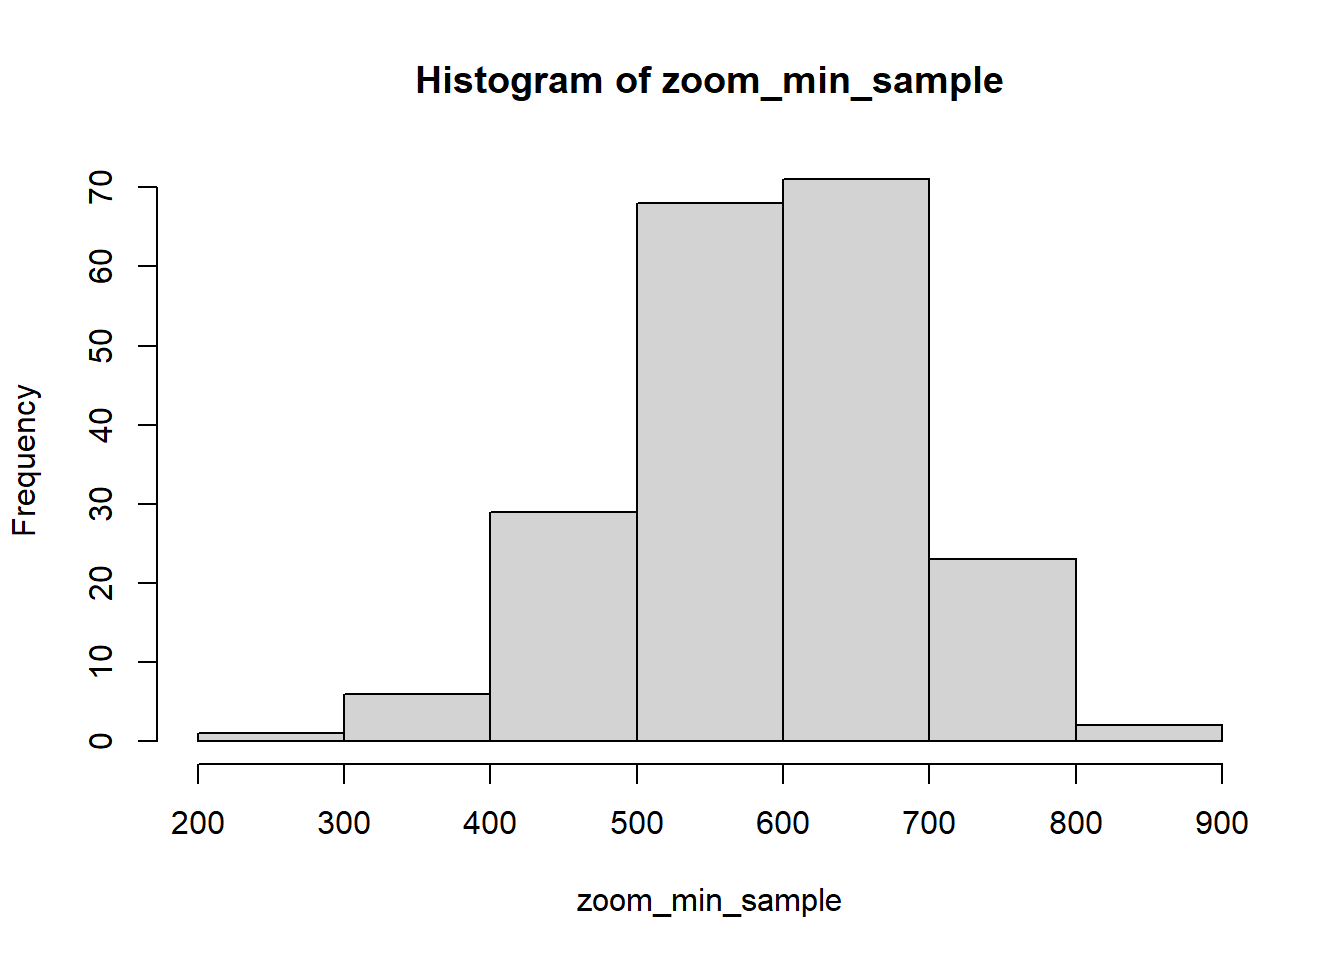
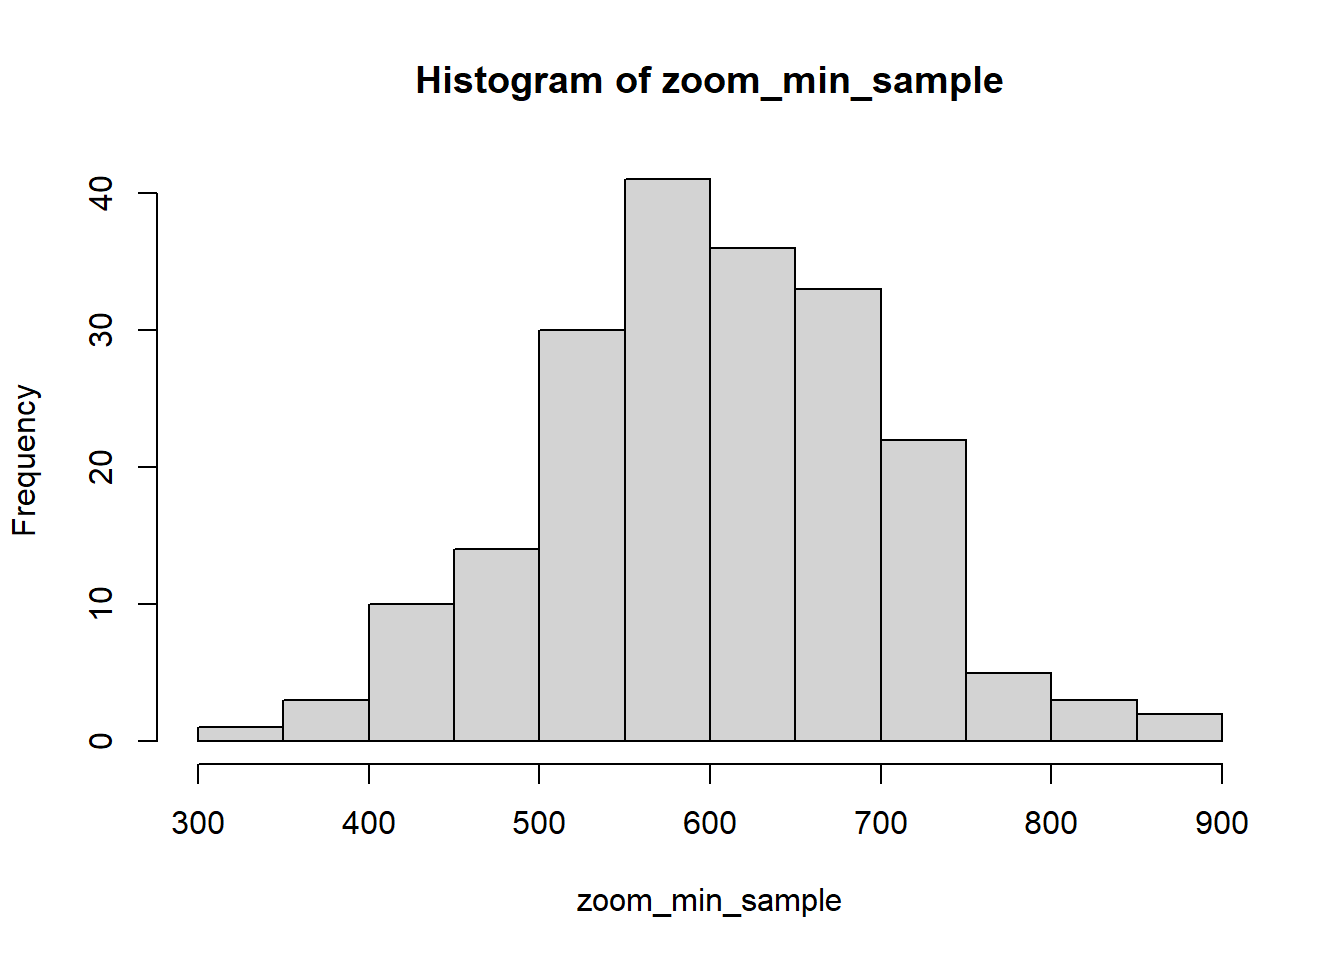
misc updates

diff --git a/docs/week-2-intro-stats-data-distributions-intro-r-rstudio.html b/docs/week-2-intro-stats-data-distributions-intro-r-rstudio.html
@@ -24,7 +24,7 @@
 <meta name="author" content="Dr. Katz" />
 
 
-<meta name="date" content="2021-02-07" />
+<meta name="date" content="2021-02-08" />
 
   <meta name="viewport" content="width=device-width, initial-scale=1" />
   <meta name="apple-mobile-web-app-capable" content="yes" />
@@ -449,9 +449,9 @@ code span.wa { color: #60a0b0; font-weight: bold; font-style: italic; } /* Warni
 <span id="cb33-6"><a href="week-2-intro-stats-data-distributions-intro-r-rstudio.html#cb33-6" aria-hidden="true"></a><span class="kw">hist</span>(zoom_min_sample)</span></code></pre></div>
 <p><img src="test_course_notes_files/figure-html/unnamed-chunk-18-2.png" width="672" /></p>
 <div class="sourceCode" id="cb34"><pre class="sourceCode r"><code class="sourceCode r"><span id="cb34-1"><a href="week-2-intro-stats-data-distributions-intro-r-rstudio.html#cb34-1" aria-hidden="true"></a><span class="kw">mean</span>(zoom_min_sample)</span></code></pre></div>
-<pre><code>## [1] 589.9368</code></pre>
+<pre><code>## [1] 602.8275</code></pre>
 <div class="sourceCode" id="cb36"><pre class="sourceCode r"><code class="sourceCode r"><span id="cb36-1"><a href="week-2-intro-stats-data-distributions-intro-r-rstudio.html#cb36-1" aria-hidden="true"></a><span class="kw">sd</span>(zoom_min_sample)</span></code></pre></div>
-<pre><code>## [1] 100.1208</code></pre>
+<pre><code>## [1] 97.91744</code></pre>
 <p>As a brief aside, let’s review the idea of a loop</p>
 <div class="sourceCode" id="cb38"><pre class="sourceCode r"><code class="sourceCode r"><span id="cb38-1"><a href="week-2-intro-stats-data-distributions-intro-r-rstudio.html#cb38-1" aria-hidden="true"></a>num_reps &lt;-<span class="st"> </span><span class="dv">100</span></span>
 <span id="cb38-2"><a href="week-2-intro-stats-data-distributions-intro-r-rstudio.html#cb38-2" aria-hidden="true"></a></span>
@@ -464,12 +464,12 @@ code span.wa { color: #60a0b0; font-weight: bold; font-style: italic; } /* Warni
 <span id="cb38-9"><a href="week-2-intro-stats-data-distributions-intro-r-rstudio.html#cb38-9" aria-hidden="true"></a>}</span></code></pre></div>
 <p>Okay, so that’s how we create an empty vector and how we loop through its different entries. For this demo, we will also need to remenber how to generate random numbers from a norm distribution with a specified mean and standard deviation.</p>
 <div class="sourceCode" id="cb39"><pre class="sourceCode r"><code class="sourceCode r"><span id="cb39-1"><a href="week-2-intro-stats-data-distributions-intro-r-rstudio.html#cb39-1" aria-hidden="true"></a><span class="kw">rnorm</span>(<span class="dt">n =</span> <span class="dv">10</span>, <span class="dt">mean =</span> <span class="dv">5</span>, <span class="dt">sd =</span> <span class="dv">2</span>) <span class="co"># n is the number of random numbers we draw from this normal distribution</span></span></code></pre></div>
-<pre><code>##  [1] 4.3633405 3.9165137 4.7545297 2.4079111 3.9952598 5.4699150 4.9726253 0.1157952 4.7094517 3.8486615</code></pre>
+<pre><code>##  [1]  4.2247009  5.3210274  5.7669266  7.0033358  6.1321445  6.2682146  4.4224854  3.4958685  3.1813817 -0.1611869</code></pre>
 <p>Okay, so that’s not bad. Now, that command will produce a vector with 10 random numbers. We can calculate the mean and standard deviation of those 10 numbers (which should be close to the values that we specified in <code>rnorm()</code> with the <code>mean()</code> and <code>sd()</code> functions.</p>
 <div class="sourceCode" id="cb41"><pre class="sourceCode r"><code class="sourceCode r"><span id="cb41-1"><a href="week-2-intro-stats-data-distributions-intro-r-rstudio.html#cb41-1" aria-hidden="true"></a><span class="kw">mean</span>(<span class="kw">rnorm</span>(<span class="dt">n =</span> <span class="dv">10</span>, <span class="dt">mean =</span> <span class="dv">5</span>, <span class="dt">sd =</span> <span class="dv">2</span>))</span></code></pre></div>
-<pre><code>## [1] 5.071956</code></pre>
+<pre><code>## [1] 6.088133</code></pre>
 <div class="sourceCode" id="cb43"><pre class="sourceCode r"><code class="sourceCode r"><span id="cb43-1"><a href="week-2-intro-stats-data-distributions-intro-r-rstudio.html#cb43-1" aria-hidden="true"></a><span class="kw">sd</span>(<span class="kw">rnorm</span>(<span class="dt">n =</span> <span class="dv">10</span>, <span class="dt">mean =</span> <span class="dv">5</span>, <span class="dt">sd =</span> <span class="dv">2</span>))</span></code></pre></div>
-<pre><code>## [1] 3.46389</code></pre>
+<pre><code>## [1] 1.235859</code></pre>
 <p>Next, let’s act as if we are drawing a certain sample of size <code>samp_size</code> of data points for <code>num_reps</code> number of times. Keep in mind that, in practice, when we are collecting data ourselves in our own research, num_reps will almost always be 1. We are just demonstrating the underlying assumptions for how we can calculate some of the statistics that we use.</p>
 <div class="sourceCode" id="cb45"><pre class="sourceCode r"><code class="sourceCode r"><span id="cb45-1"><a href="week-2-intro-stats-data-distributions-intro-r-rstudio.html#cb45-1" aria-hidden="true"></a>num_reps &lt;-<span class="st"> </span><span class="dv">1000</span> <span class="co"># specify how many times to take a sample</span></span>
 <span id="cb45-2"><a href="week-2-intro-stats-data-distributions-intro-r-rstudio.html#cb45-2" aria-hidden="true"></a>samp_size &lt;-<span class="st"> </span><span class="dv">200</span> <span class="co"># specify the size of each sample</span></span>
@@ -482,7 +482,7 @@ code span.wa { color: #60a0b0; font-weight: bold; font-style: italic; } /* Warni
 <div class="sourceCode" id="cb46"><pre class="sourceCode r"><code class="sourceCode r"><span id="cb46-1"><a href="week-2-intro-stats-data-distributions-intro-r-rstudio.html#cb46-1" aria-hidden="true"></a><span class="kw">hist</span>(data_vec)</span></code></pre></div>
 <p><img src="test_course_notes_files/figure-html/unnamed-chunk-23-1.png" width="672" /></p>
 <div class="sourceCode" id="cb47"><pre class="sourceCode r"><code class="sourceCode r"><span id="cb47-1"><a href="week-2-intro-stats-data-distributions-intro-r-rstudio.html#cb47-1" aria-hidden="true"></a><span class="kw">sd</span>(data_vec)</span></code></pre></div>
-<pre><code>## [1] 6.868112</code></pre>
+<pre><code>## [1] 7.359846</code></pre>
 <p>On your own, try copying this code and changing the num_reps and sample_size variables to larger and smaller values. Focus on how the x-axis values in your histogram change when you change the num_reps and samp_size variables.</p>
 <p>Hint: CLT will explain the normal distribution of the sampling mean (the shape you see in the histogram) while the Weak Law of Large Numbers will explain the concentration around the true mean as samp_size increases (i.e., when we draw a larger sample size from the population, our sample mean gets closer to the population mean).</p>
 <div class="sourceCode" id="cb49"><pre class="sourceCode r"><code class="sourceCode r"><span id="cb49-1"><a href="week-2-intro-stats-data-distributions-intro-r-rstudio.html#cb49-1" aria-hidden="true"></a><span class="co">## Quick note on the rep() function: notice what happens when you specify &quot;each&quot; vs &quot;times&quot;.</span></span>

diff --git a/docs/week-4-assumptions-and-correlations.html b/docs/week-4-assumptions-and-correlations.html
@@ -24,7 +24,7 @@
 <meta name="author" content="Dr. Katz" />
 
 
-<meta name="date" content="2021-02-07" />
+<meta name="date" content="2021-02-08" />
 
   <meta name="viewport" content="width=device-width, initial-scale=1" />
   <meta name="apple-mobile-web-app-capable" content="yes" />
@@ -209,7 +209,8 @@ code span.wa { color: #60a0b0; font-weight: bold; font-style: italic; } /* Warni
 <p>This week we will be discussing Chapters 5 and 6 from DSUR. These notes will pull out some of the important pieces from each chapter.</p>
 <div id="assumptions" class="section level2" number="4.1">
 <h2><span class="header-section-number">4.1</span> Assumptions</h2>
-<p>These assumptions</p>
+<p>These assumptions that we are making are helpful when determining whether we should be using parametric vs non-parametric statistical tests. What does “parametric” mean here? It means that the data are from a parameterized distribution (i.e., parameters characterize the distribution that the data come from). An example of a parameterized distribution that we have already seen is the normal distribution. The two parameters for the normal distribution are <span class="math inline">\(\mu\)</span> for the mean and <span class="math inline">\(\sigma\)</span> for the standard deviation. We have seen this altogether with this kind of notation to denote that <span class="math inline">\(x_i\)</span> is from a normal distribution:</p>
+<p><span class="math inline">\(x_i \sim \mathcal{N} (\mu, \,\sigma^{2})\)</span></p>
 <div id="normally-distributed-data" class="section level3" number="4.1.1">
 <h3><span class="header-section-number">4.1.1</span> Normally distributed data</h3>
 <p>This assumption is about the normality of the sampling distribution. The big idea here is that we tend to operate under the belief that if our <em>sampled</em> data are normally distributed then the underlying <em>sampling distribution</em> is also normally distributed. Also, keep in mind that this becomes less of a concern as our sample size increases (thank, Central Limit Theorem!).</p>

diff --git a/docs/index.html b/docs/index.html
@@ -24,7 +24,7 @@
 <meta name="author" content="Dr. Katz" />
 
 
-<meta name="date" content="2021-02-07" />
+<meta name="date" content="2021-02-08" />
 
   <meta name="viewport" content="width=device-width, initial-scale=1" />
   <meta name="apple-mobile-web-app-capable" content="yes" />
@@ -207,7 +207,7 @@ code span.wa { color: #60a0b0; font-weight: bold; font-style: italic; } /* Warni
 <div id="header">
 <h1 class="title">ENGE 5714 Course Notes 2021</h1>
 <p class="author"><em>Dr. Katz</em></p>
-<p class="date"><em>2021-02-07</em></p>
+<p class="date"><em>2021-02-08</em></p>
 </div>
 <div id="preamble" class="section level1 unnumbered">
 <h1>Preamble</h1>

diff --git a/docs/week-1-introductions.html b/docs/week-1-introductions.html
@@ -24,7 +24,7 @@
 <meta name="author" content="Dr. Katz" />
 
 
-<meta name="date" content="2021-02-07" />
+<meta name="date" content="2021-02-08" />
 
   <meta name="viewport" content="width=device-width, initial-scale=1" />
   <meta name="apple-mobile-web-app-capable" content="yes" />

diff --git a/docs/week-3-data-cleaning-organizing-describing-and-communicating.html b/docs/week-3-data-cleaning-organizing-describing-and-communicating.html
@@ -24,7 +24,7 @@
 <meta name="author" content="Dr. Katz" />
 
 
-<meta name="date" content="2021-02-07" />
+<meta name="date" content="2021-02-08" />
 
   <meta name="viewport" content="width=device-width, initial-scale=1" />
   <meta name="apple-mobile-web-app-capable" content="yes" />

diff --git a/docs/week-5-regression-i.html b/docs/week-5-regression-i.html
@@ -24,7 +24,7 @@
 <meta name="author" content="Dr. Katz" />
 
 
-<meta name="date" content="2021-02-07" />
+<meta name="date" content="2021-02-08" />
 
   <meta name="viewport" content="width=device-width, initial-scale=1" />
   <meta name="apple-mobile-web-app-capable" content="yes" />

diff --git a/docs/week-6-regression-ii.html b/docs/week-6-regression-ii.html
@@ -24,7 +24,7 @@
 <meta name="author" content="Dr. Katz" />
 
 
-<meta name="date" content="2021-02-07" />
+<meta name="date" content="2021-02-08" />
 
   <meta name="viewport" content="width=device-width, initial-scale=1" />
   <meta name="apple-mobile-web-app-capable" content="yes" />
